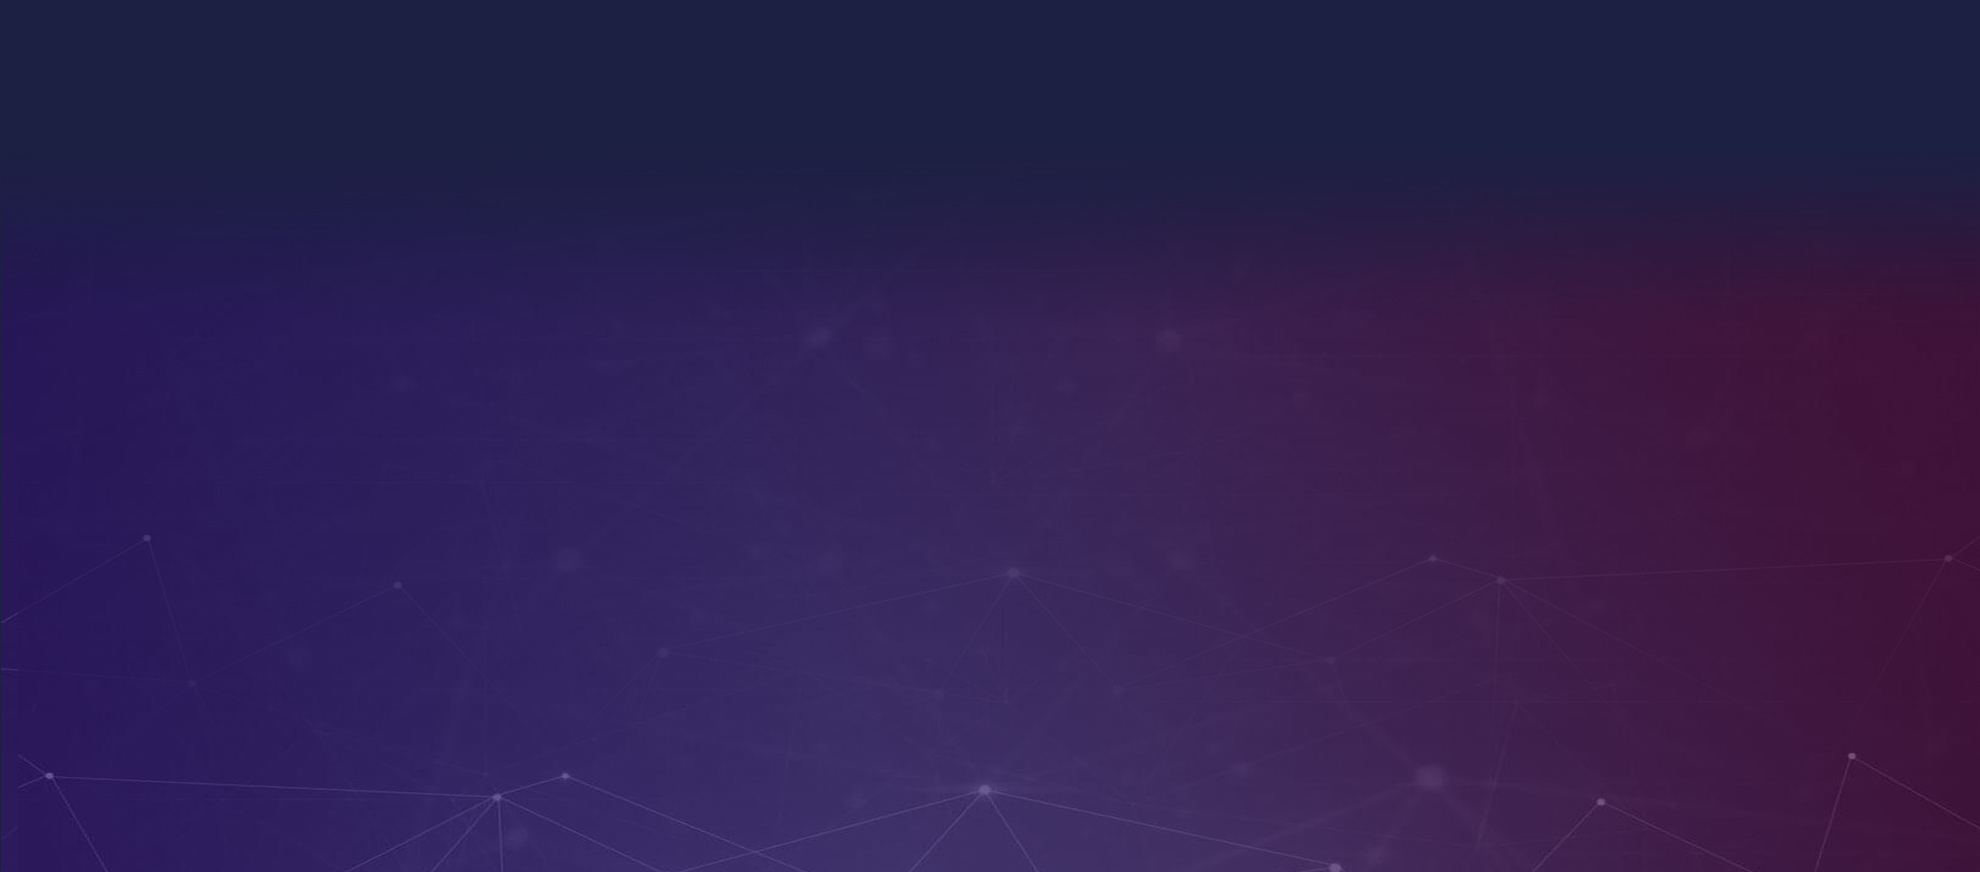
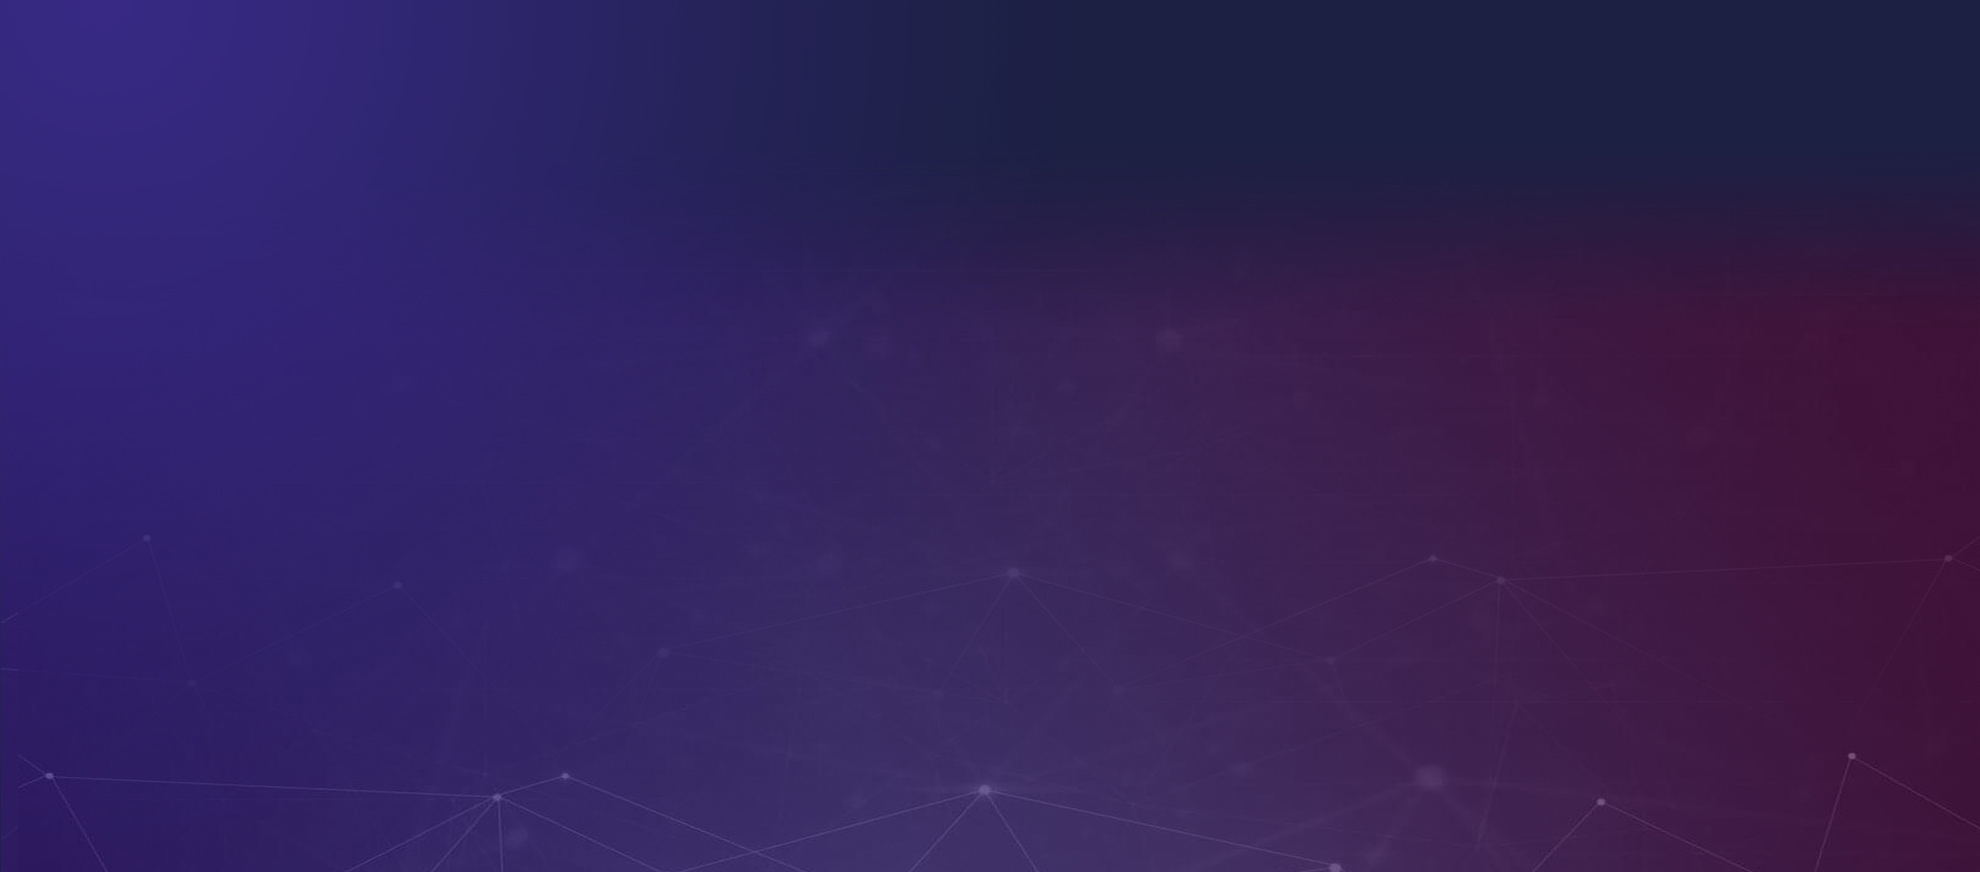
背景更新一版

Changed region(s): [[0.0, 0.0, 0.3697, 0.5573]]

diff --git a/sass/animatebg.scss b/sass/animatebg.scss
@@ -1,12 +1,12 @@
 body {
     // background-color: #1b1f47;
-    // background: #1b1f47 url("../images/bg2.jpg") no-repeat bottom center;
+  
     background: #1c2043;
     /* fallback for old browsers */
     background: -webkit-linear-gradient(29deg, #3f2b96 10%, #1c2043 60%);
     /* Chrome 10-25, Safari 5.1-6 */
     background: linear-gradient(29deg, #3f2b96 10%, #1c2043 60%);
-    /* W3C, IE 10+/ Edge, Firefox 16+, Chrome 26+, Opera 12+, Safari 7+ */
+    /* W3C, IE 10+/ Edge, Firefox 16+, Chrome 26+, Opera 12+, Safari 7+ */  
     background-attachment: fixed;
     background-repeat: no-repeat;
     background-position: left top;

diff --git a/css/alchecoin.css b/css/alchecoin.css
@@ -1130,10 +1130,19 @@ h4.heading {
 .index-wrapper {
   overflow: hidden;
   padding-top: 100px;
-  position: relative;
   z-index: 12;
   max-width: 1300px;
   margin: auto; }
+  .index-wrapper:after {
+    content: '';
+    display: block;
+    width: 100%;
+    position: absolute;
+    height: 800px;
+    left: 0;
+    bottom: 0;
+    background: url(../images/bg2.jpg) no-repeat bottom center;
+    opacity: 0.5; }
 
 @-webkit-keyframes rote1 {
   0% {

diff --git a/sass/common.scss b/sass/common.scss
@@ -129,10 +129,20 @@ h4.heading {
 .index-wrapper {
     overflow: hidden;
     padding-top: 100px;
-    position: relative;
     z-index: 12;
     max-width: 1300px;
     margin: auto;
+    &:after{
+      content: '';
+      display: block;
+      width: 100%;
+      position: absolute;
+      height:800px;
+      left:0;
+      bottom:0;
+      background:url(../images/bg2.jpg) no-repeat bottom center;
+      opacity: 0.5;
+    }
 }
 
 // title
